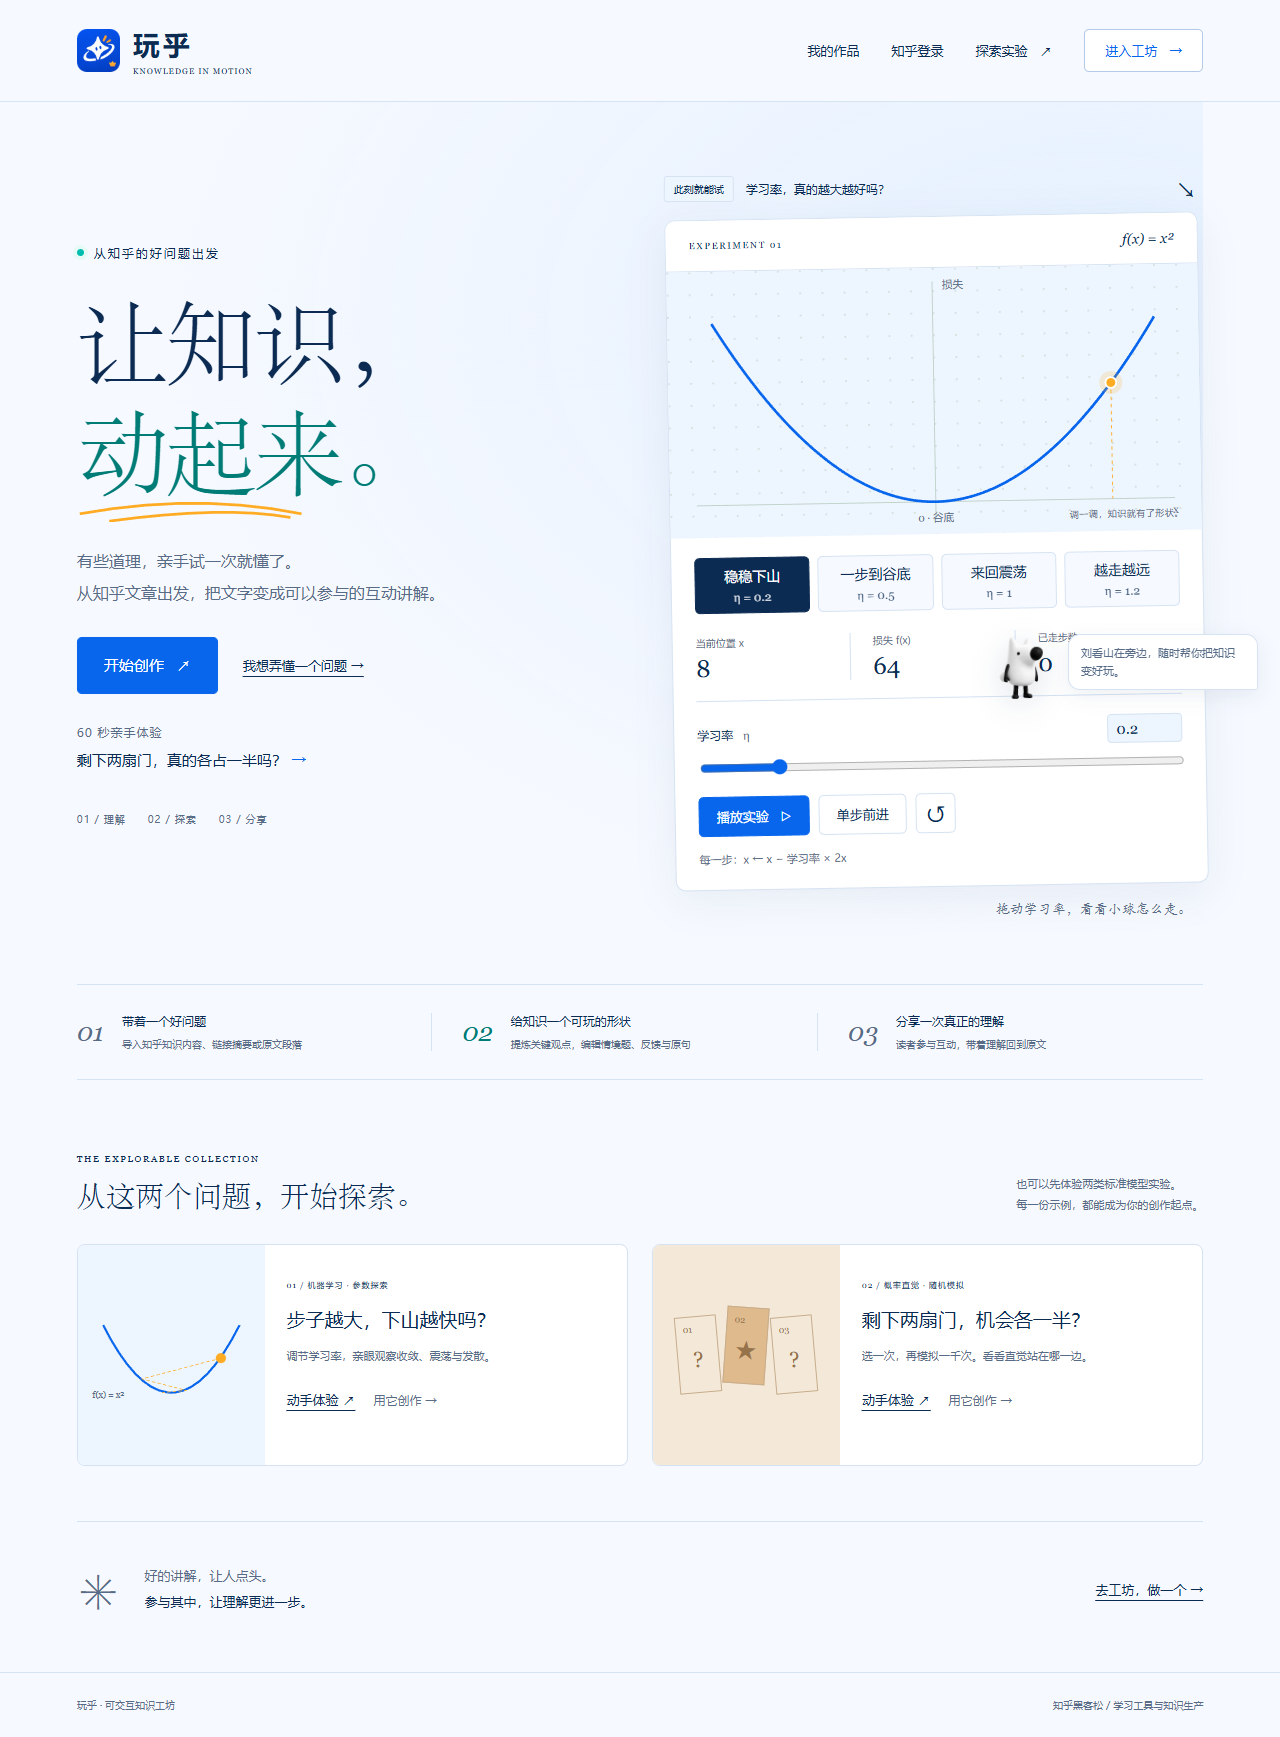
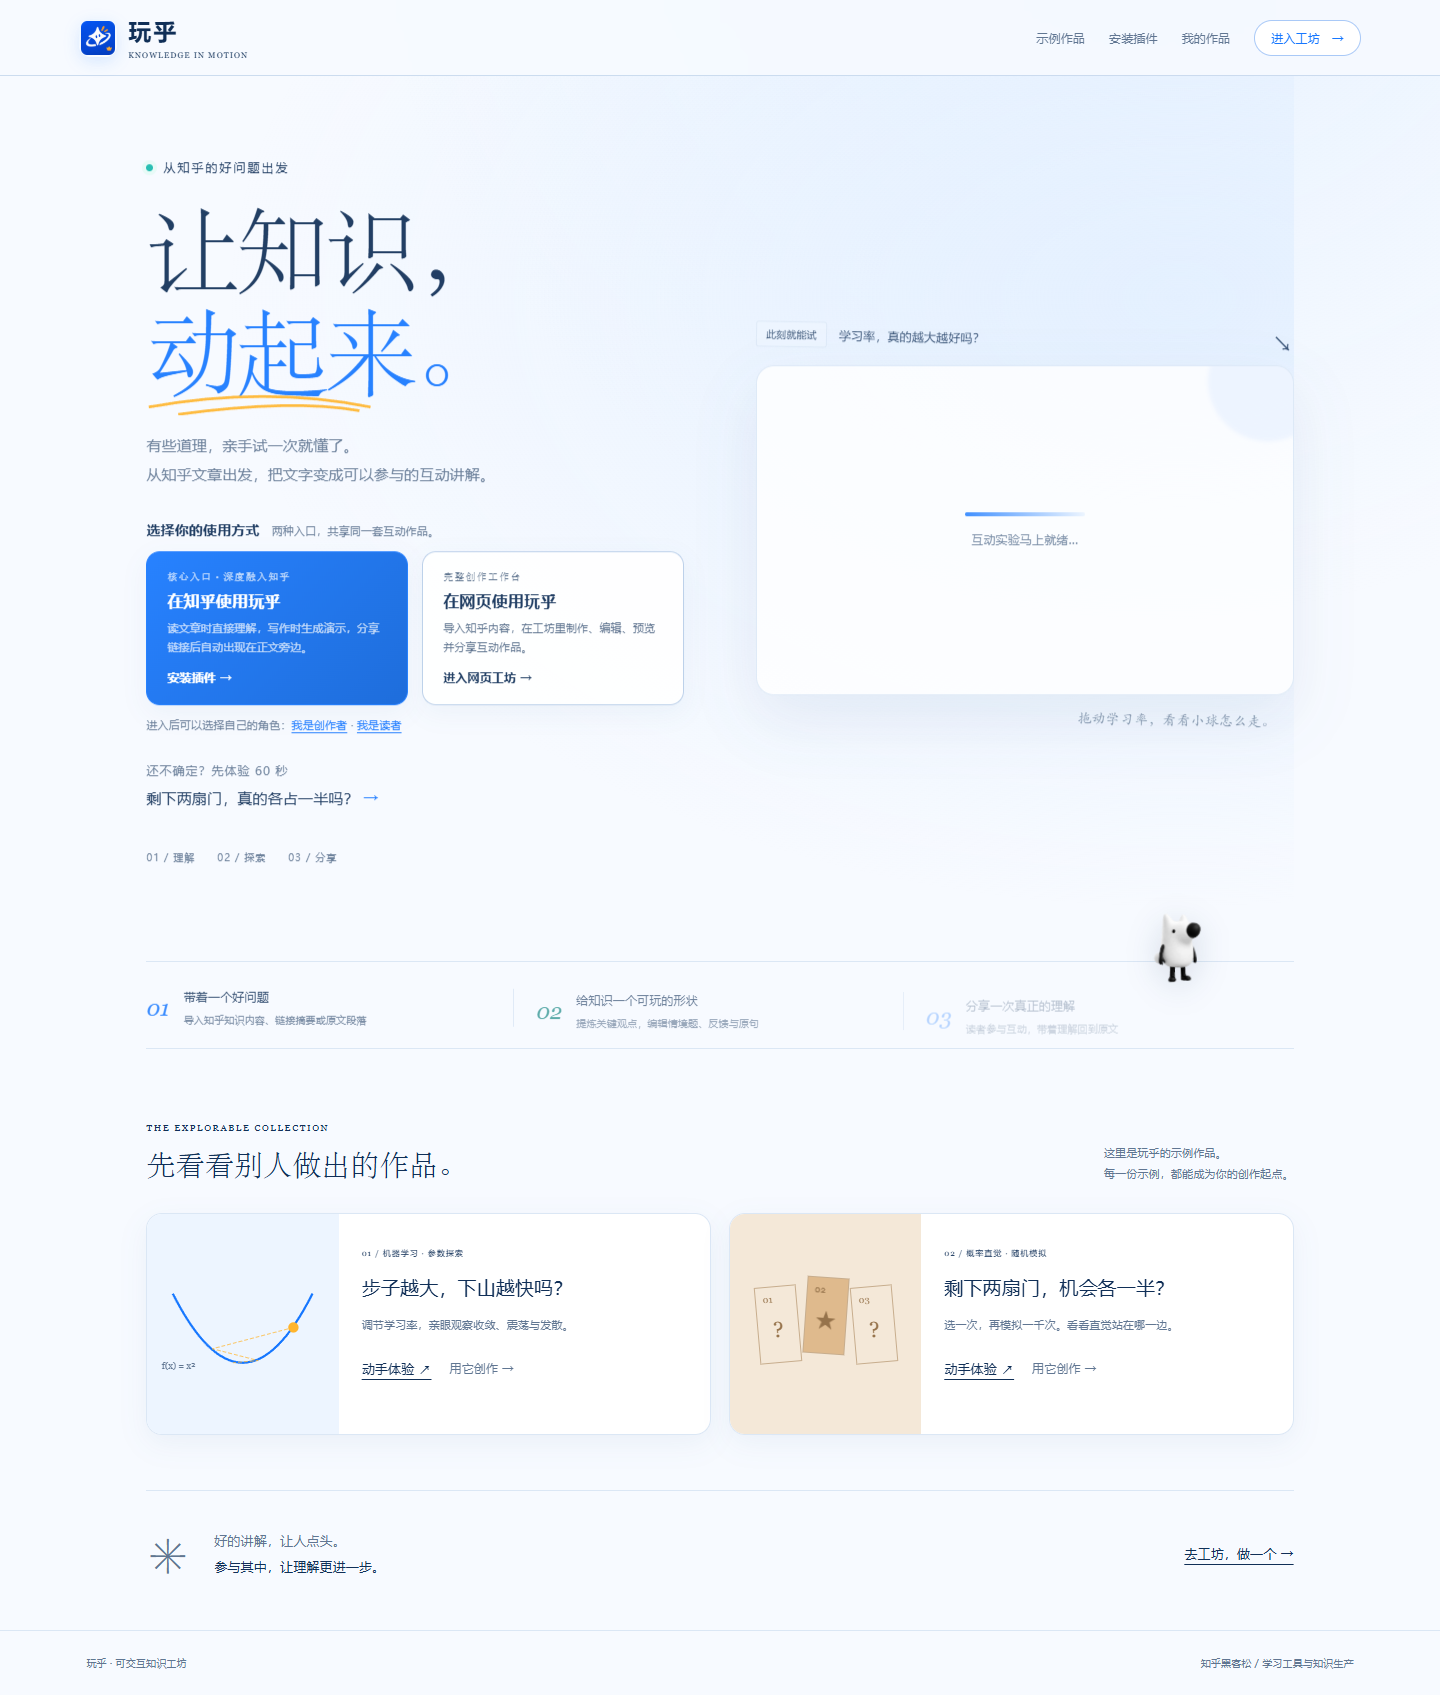
docs: refresh submission screenshots from production

diff --git a/submission/product-description-plan.md b/submission/product-description-plan.md
@@ -197,6 +197,10 @@ flowchart LR
 
 *图 1：线上首页，展示“在知乎使用”和“在网页使用”两个同级入口，并保留可操作实验作为黑客松作品展示。*
 
+![线上创作工坊](../public/submission-assets/current/create.png)
+
+*图 2：线上创作工坊，作者可以导入知乎材料、生成草稿、编辑互动并预览读者体验。*
+
 ## 六、核心功能与作品形式
 
 ### 6.1 原文互动阅读
@@ -240,11 +244,15 @@ flowchart LR
 
 ![线上互动实验页](../public/submission-assets/current/experiment.png)
 
-*图 2：线上互动实验页，读者先预测，再进行参数操作或情境选择。*
+*图 3：线上互动实验页，读者先预测，再进行参数操作或情境选择。*
 
 ![线上作品集](../public/submission-assets/current/library.png)
 
-*图 3：作品集保存创作草稿和学习副本，支持继续编辑、复制和备份。*
+*图 4：作品集保存创作草稿和学习副本，支持继续编辑、复制和备份。*
+
+![线上插件安装页](../public/submission-assets/current/extension.png)
+
+*图 5：插件安装页，说明如何把玩乎带进知乎文章和写作编辑器。*
 
 ## 七、技术方案
 

diff --git a/README.md b/README.md
@@ -64,6 +64,8 @@
 
 ![线上作品集](public/submission-assets/current/library.png)
 
+![插件安装页](public/submission-assets/current/extension.png)
+
 ### 两类互动协议
 
 **原文互动阅读**适合具体观点、方法和步骤。作品把文章中的要点改写成贴近日常的情境题，每个选项都有针对性反馈，并保留可核对的原句和知乎来源。
